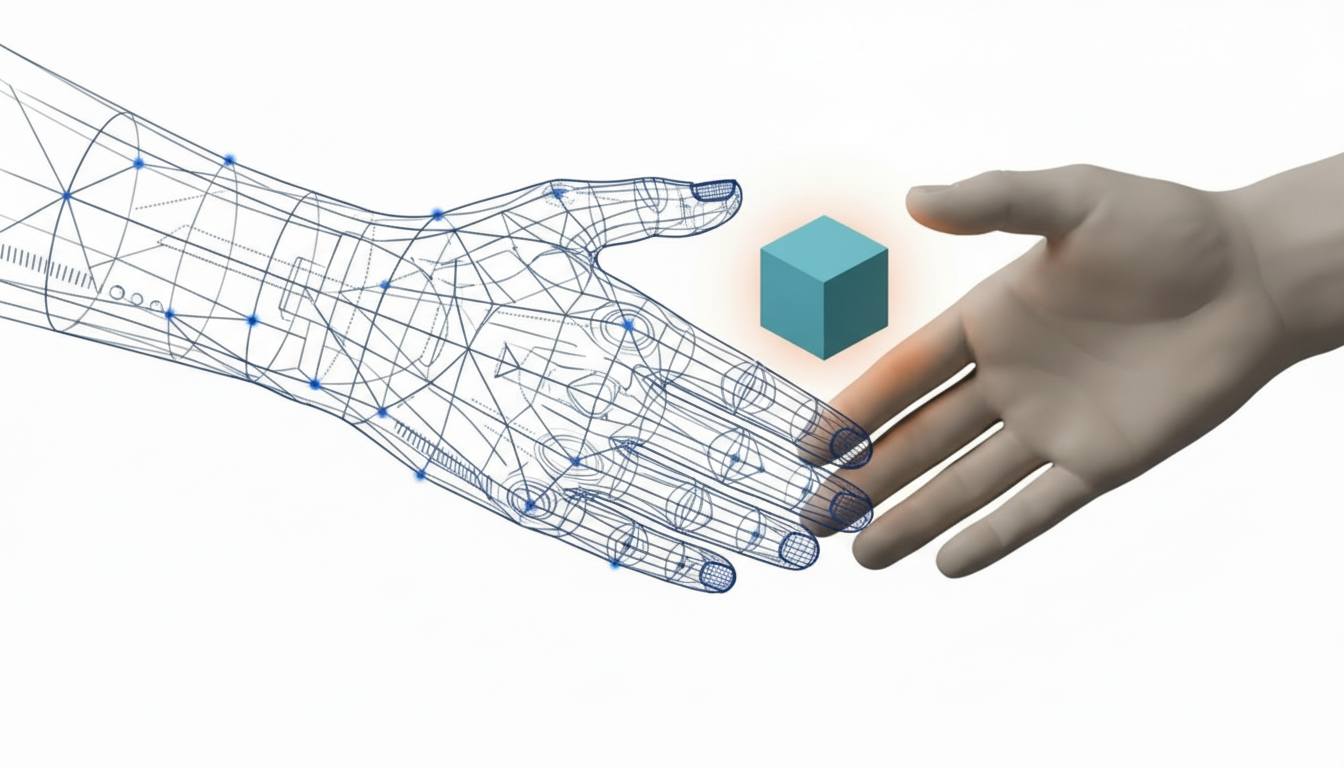
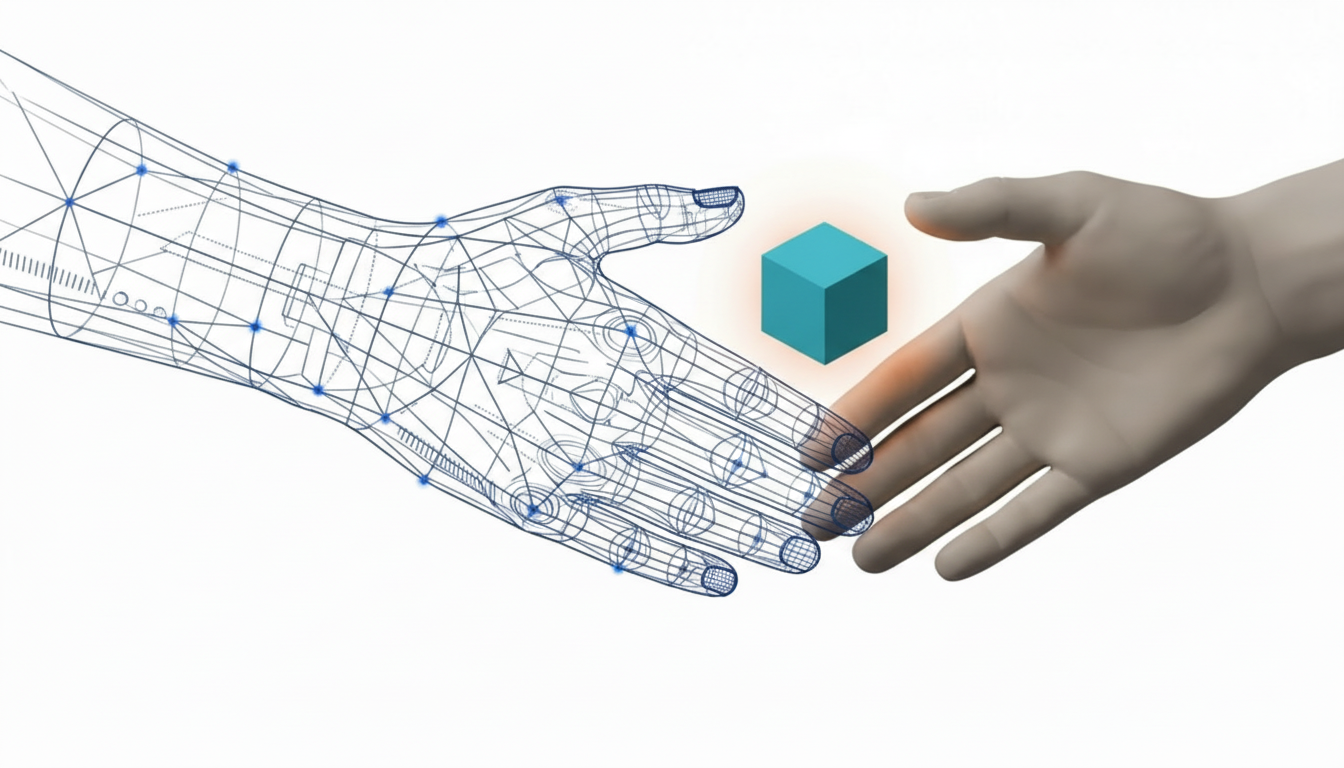
Changes

diff --git a/src/pages/BeFound.tsx b/src/pages/BeFound.tsx
@@ -611,8 +611,8 @@ const BeFound = () => {
           className="absolute inset-0 z-0"
           style={{
             backgroundImage: `url(${beFoundHeroHands})`,
-            backgroundSize: '60%',
-            backgroundPosition: 'right -5%',
+            backgroundSize: 'contain',
+            backgroundPosition: 'center right',
             backgroundRepeat: 'no-repeat',
           }}
         />
